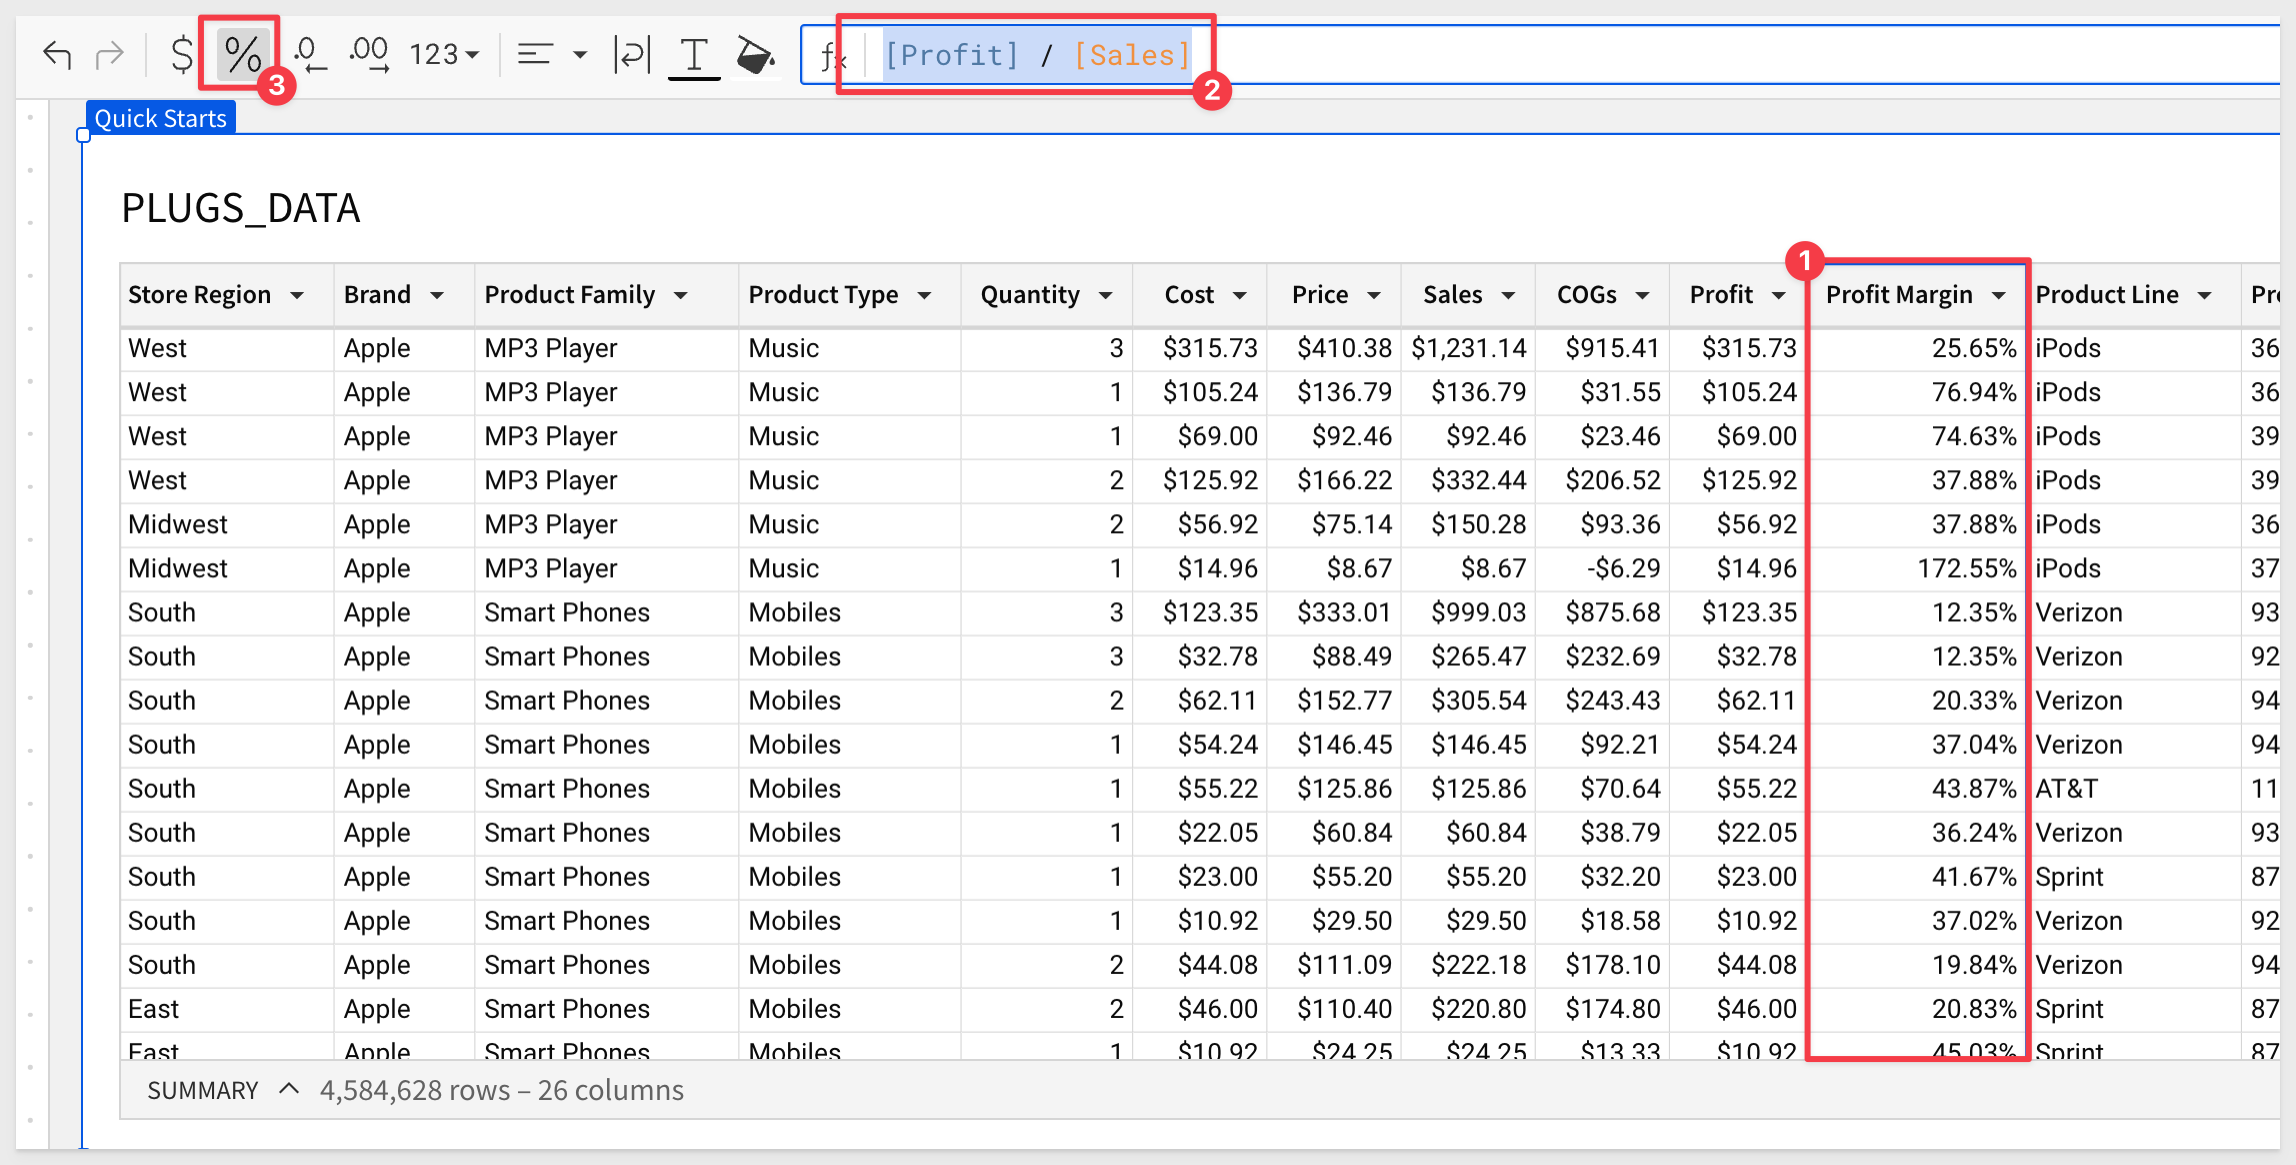
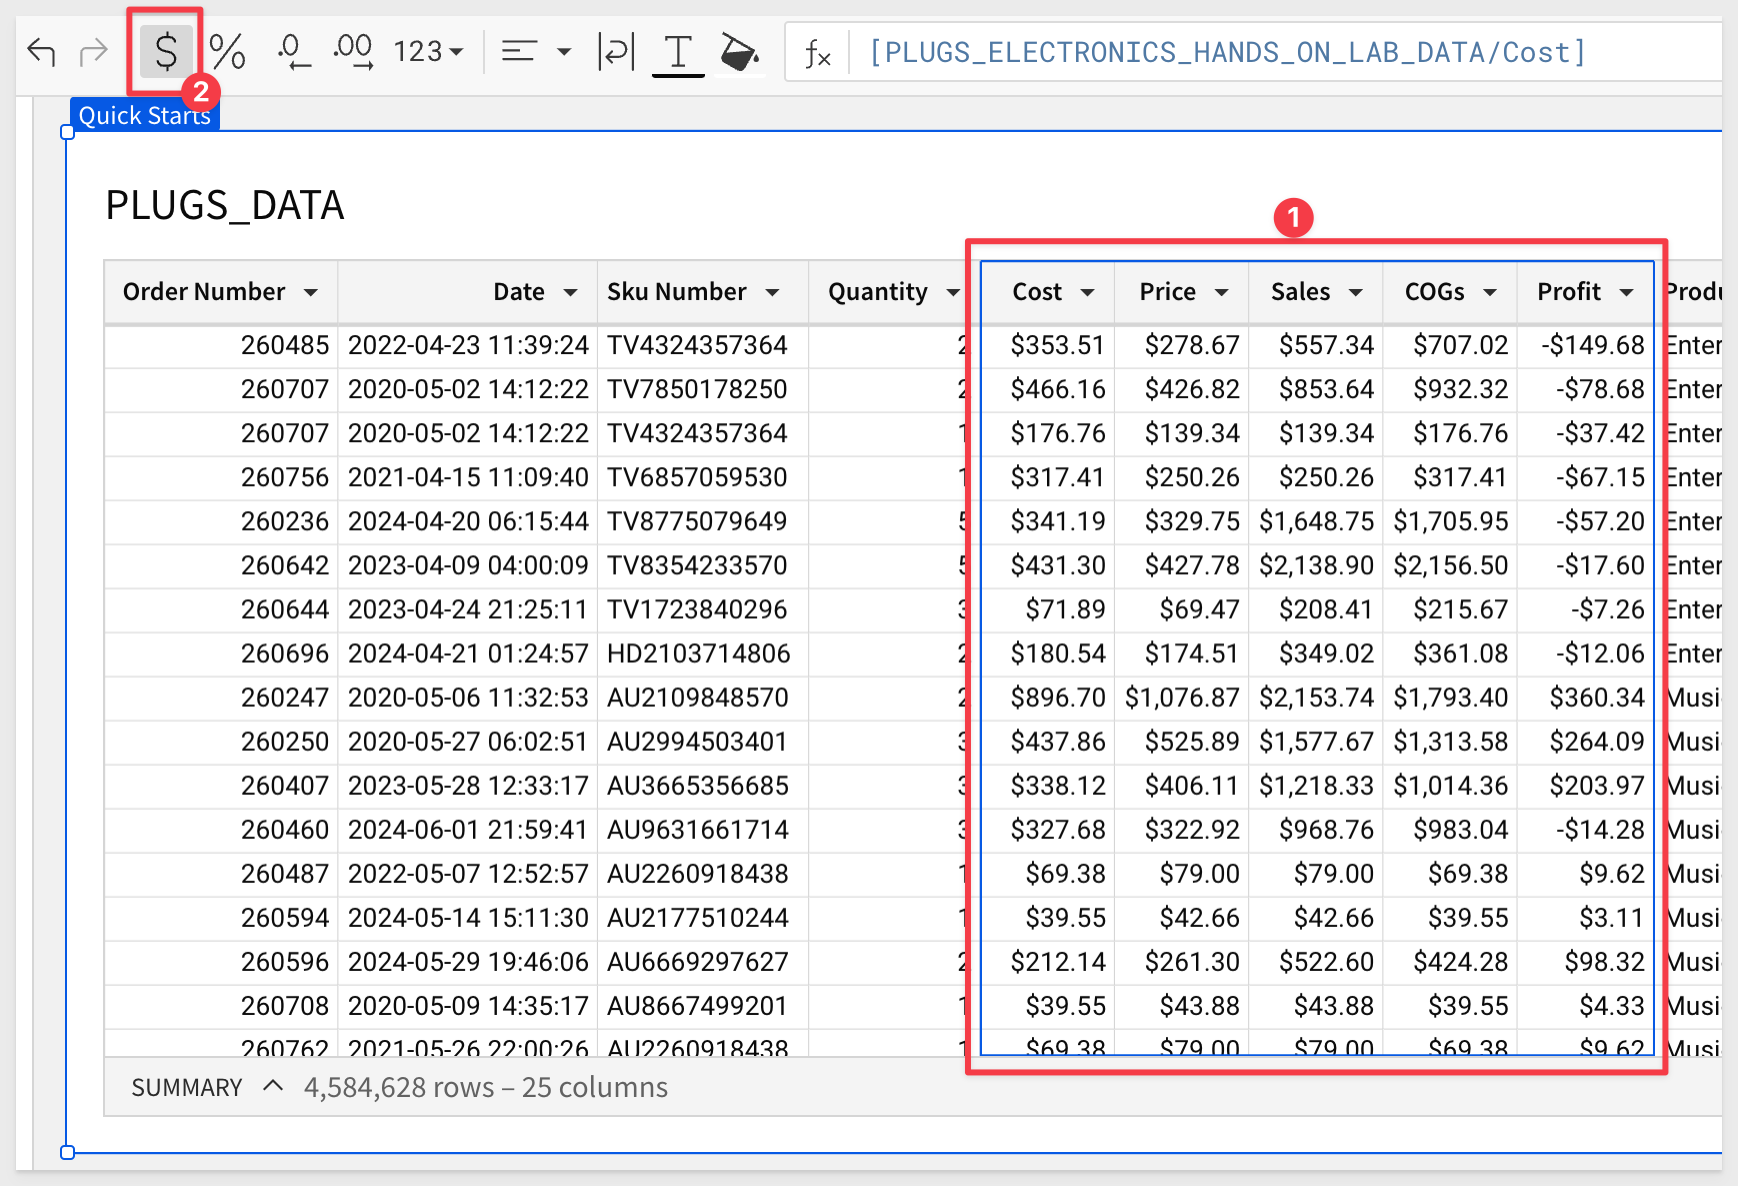
wip

Changed region(s): [[0.0, 0.1545, 0.9942, 0.9888], [0.0, 0.0, 0.9942, 0.1545]]

diff --git a/site/sigmaguides/src/Fundamentals 2: Working with Tables-v2/Fundamentals 2: Working with Tables.md b/site/sigmaguides/src/Fundamentals 2: Working with Tables-v2/Fundamentals 2: Working with Tables.md
@@ -44,7 +44,7 @@ Duration: 6
 
 Our starting point is the `Plugs Sales` workbook created in the `Fundamentals 1: Getting Around` QuickStart. 
 
-In Sigma, open the workbook `Plugs Sales` and place it in `edit` mode. 
+In Sigma, open the workbook `Fundamentals` and place it in `edit` mode. 
 
 We should still have two pages, `Dashboard` and `Data`. Both have the `PLUGS_DATA` table on it; click to use the `Data` page.
 
@@ -72,16 +72,18 @@ In the function bar, start typing `Sum`. Sigma tries to provide all the possible
 
 <img src="assets/fun2_2.png" width="800"/>
 
-This is a simple example but when you type `ListAggDistinct(`, Sigma also provides detailed help on the required syntax for complex functions too:
+This is a simple example but when you type `ListAggD` and hit `enter`. 
+
+Sigma also provides detailed help on the required syntax for complex functions too:
 
 <img src="assets/fun2_3.png" width="600"/>
 
-Enter the formula:
+With the `Sales` column selected, enter the formula:
 ```code
 [Price] * [Quant] 
 ```
 		
-This is an **intentional mistake** in our formula; `Quant is not a valid column` and it does not exist anywhere else in the Workbook. What happened?
+This is an **intentional mistake** in our formula; `Unknown column "Quant"`; it does not exist anywhere else in the Workbook. What happened?
 
 Sigma makes you immediately aware the function has a problem:
 
@@ -106,6 +108,12 @@ Do the same to add the `Profit` column:
 ```code
 [Sales] - [COGs]
 ```
+
+Click the `Cost` column, hold down the shift key and click the `Profit` column.
+
+With the five columns all selected, click the `$` icon in the toolbar to change them all to currency format:
+
+<img src="assets/calculatedcols3.png" width="600"/>
 
 Click `Publish`.
 
